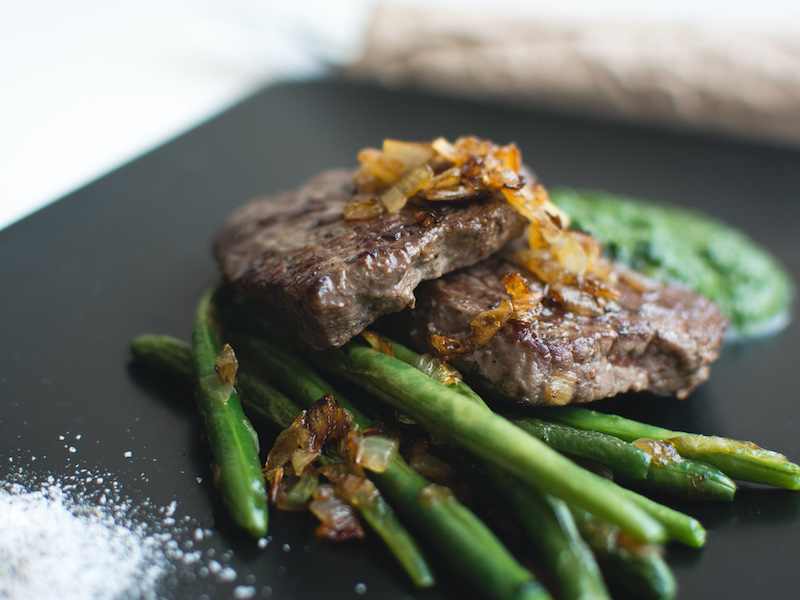
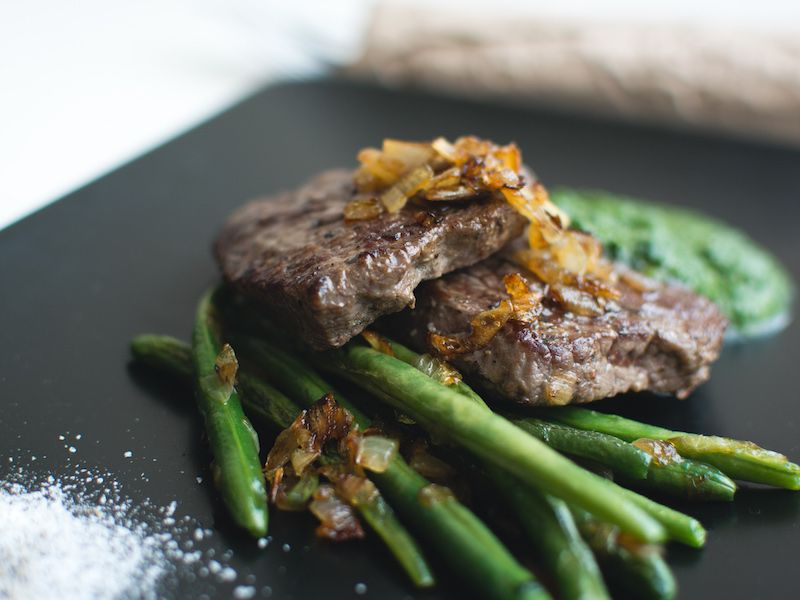
img compressed

diff --git a/resources/css/style.css b/resources/css/style.css
@@ -179,7 +179,7 @@ section {
 /* -------------HEADER heading STARTS-------------  */
 header {
   background-image: linear-gradient(rgba(0, 0, 0, 0.705), rgba(0, 0, 0, 0.705)),
-    url(./img/hero.jpg);
+    url(./img/hero-compressed.jpg);
   height: 100vh;
   background-size: cover;
   background-position: center;
@@ -393,7 +393,7 @@ input[type="submit"]:active {
 /* -------------SECTION STEPS STARTS-------------  */
 .section-testimonials {
   background-image: linear-gradient(rgba(0, 0, 0, 0.705), rgba(0, 0, 0, 0.705)),
-    url(./img/back-customers.jpg);
+    url(./img/back-customers-compressed.jpg);
   background-size: cover;
   background-attachment: fixed;
   color: #fff;
